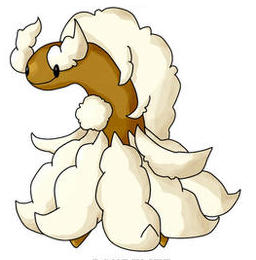
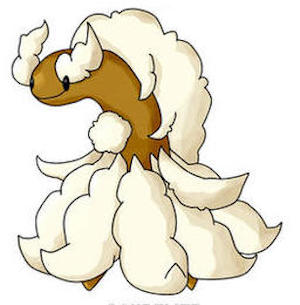
resized all fakemon images to be around 300x300 pixels to fit battle screens

diff --git a/index.html b/index.html
@@ -22,8 +22,10 @@
     </div>
   </div>
   <!-- Card for selecting fandmade pokemon -->
-  <h3 class="text-center">Pick your Fakemon</h3>
-  <h5 class="text-center">Single click to select your fakemon character. Double click to unselect.</h5>
+  <div class="intro">
+    <h3 class="text-center">Pick your Fakemon</h3>
+    <h5 class="text-center">Single click to select your fakemon character. Double click to unselect.</h5>
+  </div>
   <div class="flex-container  align-spaced">
     <div class="row small-up-2 medium-up-3">
       <div class="card" id="button1">

diff --git a/assets/js/battle.js b/assets/js/battle.js
@@ -230,6 +230,8 @@ document.querySelector("#userPokemonName").textContent = JSON.parse(
 var userPokeImgSRC = JSON.parse(localStorage.getItem("image"));
 userPokeImgSRC = userPokeImgSRC.split("assets");
 document.querySelector("#userPokemonImg").src = "./assets" + userPokeImgSRC[1];
+// document.querySelector("#userPokemonImg").width = "1000px";
+// document.querySelector("#userPokemonImg").height = "1000px";
 fusionPokemon();
 console.log(opponentStats);
 var currentStats = charStats;

diff --git a/assets/css/style.css b/assets/css/style.css
@@ -7,12 +7,16 @@ h1 {
   color: aliceblue;
 }
 
+.intro {
+  margin: 20px auto 30px auto;
+}
+
 .card {
-height: 400px;
-width: 400px;
-border: 1px solid black;
-border-radius: 8px;
-text-align: center;
+  height: 400px;
+  width: 400px;
+  border: 1px solid black;
+  border-radius: 8px;
+  text-align: center;
 }
 
 .hide {
